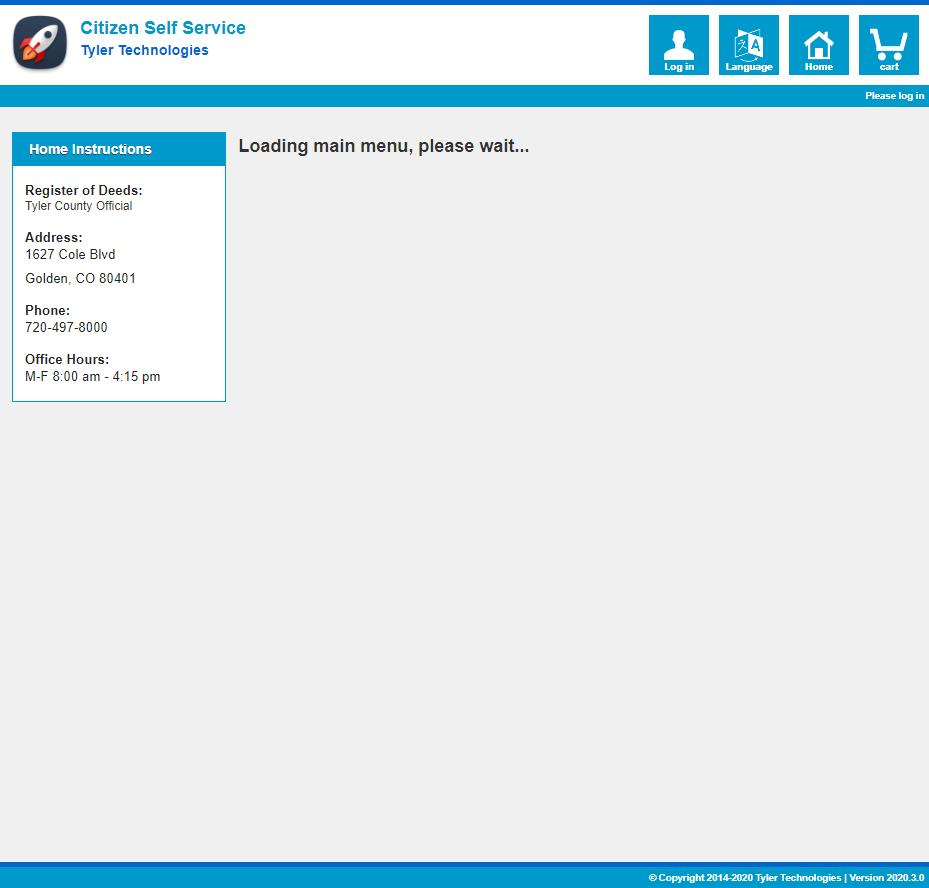
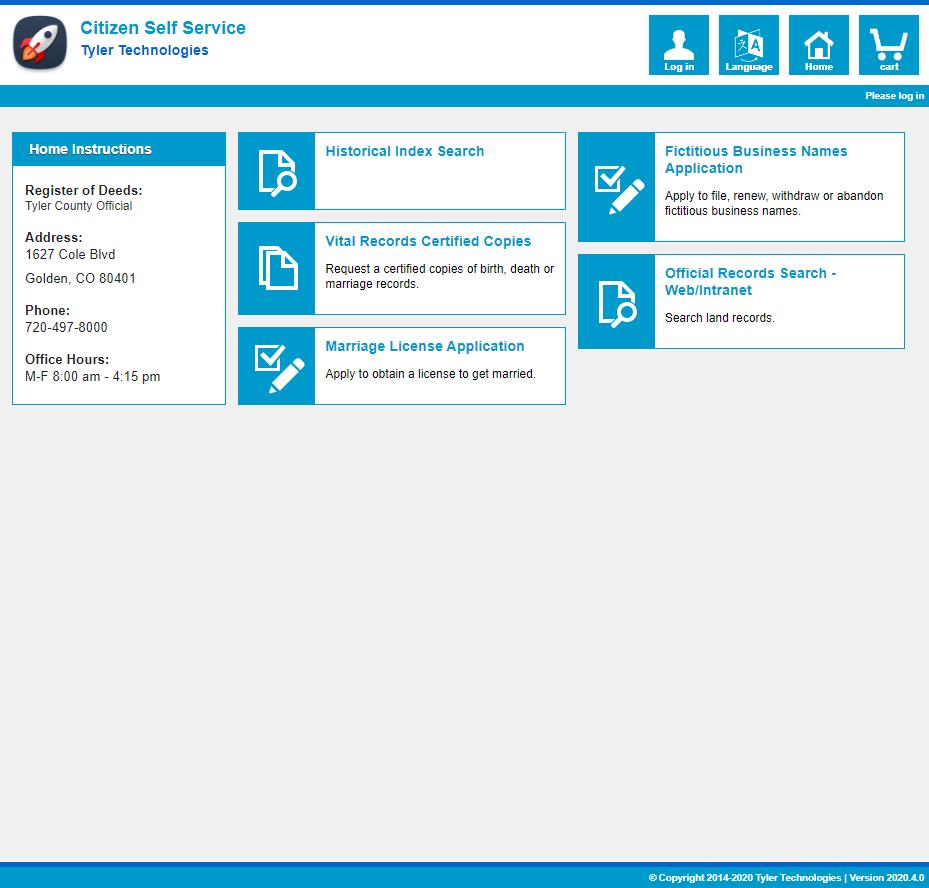
Add delay on the screen shot test

Changed region(s): [[0.0312, 0.1216, 0.9365, 0.4561]]

diff --git a/UITests/FutureCodeTests.cs b/UITests/FutureCodeTests.cs
@@ -105,7 +105,7 @@ namespace UITests
                 // arrange
                 var homePage = new HomePage(driver);
                 homePage.NavigateTo();
-                WebPageDelay.Pause();
+                WebPageDelay.Pause(5000);
                 // act
 
                 // Code to check a box
